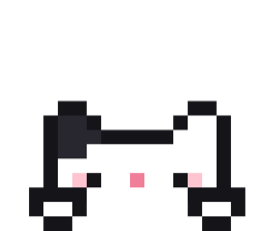
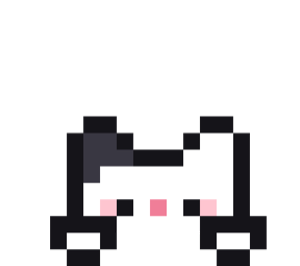
Narrow the cat's face in the peeking pose
The head is two columns narrower in all three looks, with the eyes
moved inward so they stay clear of the paws.

Changed region(s): [[0.0923, 0.4242, 0.7385, 1.0], [0.5846, 0.4242, 0.9538, 1.0]]

diff --git a/Sources/PixelCat/main.swift b/Sources/PixelCat/main.swift
@@ -85,15 +85,15 @@ let designs = [
         7: ".KWWWWWWBBBBBBBWWK",
         8: ".KWWWWWBBBBBBWWWWK",
     ], eye: NSColor(srgbRed: 1.0, green: 0.85, blue: 0.35, alpha: 1), lid: "B", legs: loafLegs, peekRows: [
+        ".....KK.....KK....",
+        "....KBPK...KPBK...",
+        "....KBBBKKKBBBK...",
+        "....KBBBBWBBBBK...",
+        "....KBBEBWBEBBK...",
+        "....KWceWPWecWK...",
+        "...KKKKWWWWWKKKK..",
+        "...KWWK.....KWWK..",
         "....KK.......KK...",
-        "...KBPK.....KPBK..",
-        "...KBBBKKKKKBBBK..",
-        "...KBBBBBWBBBBBK..",
-        "...KBBEBBWBBEBBK..",
-        "...KBceWWPWWecBK..",
-        "..KKKKWWWWWWWKKKK.",
-        "..KWWK.......KWWK.",
-        "...KK.........KK..",
     ]),
 
     Design(name: "Cow", rows: [
@@ -111,15 +111,15 @@ let designs = [
         7: ".KWWWBBBWWWWWWBBBK",
         8: ".KWWWWBBWWWWWBBBBK",
     ], eye: ink, lid: "W", legs: loafLegs, peekRows: [
+        ".....KK.....KK....",
+        "....KBPK...KPBK...",
+        "....KBBBKKKBBBK...",
+        "....KWWWBBBWWWK...",
+        "....KWWEWBWEWWK...",
+        "....KWceWPWecWK...",
+        "...KKKKWWWWWKKKK..",
+        "...KWWK.....KWWK..",
         "....KK.......KK...",
-        "...KBPK.....KPBK..",
-        "...KBBBKKKKKBBBK..",
-        "...KWWWWBBBWWWWK..",
-        "...KWWEWWBWWEWWK..",
-        "...KWceWWPWWecWK..",
-        "..KKKKWWWWWWWKKKK.",
-        "..KWWK.......KWWK.",
-        "...KK.........KK..",
     ]),
 
     Design(name: "Loaf", rows: [
@@ -137,15 +137,15 @@ let designs = [
         7: ".KWWWWWWWWWWWWBBBK",
         8: ".KWWWWWWWWWWWBBBBK",
     ], eye: ink, lid: "W", legs: loafLegs, peekRows: [
+        ".....KK.....KK....",
+        "....KBBK...KWWK...",
+        "....KBBBKKKWWWK...",
+        "....KBWWWWWWWWK...",
+        "....KWWEWWWEWWK...",
+        "....KWceWPWecWK...",
+        "...KKKKWWWWWKKKK..",
+        "...KWWK.....KWWK..",
         "....KK.......KK...",
-        "...KBBK.....KWWK..",
-        "...KBBBKKKKKWWWK..",
-        "...KBBWWWWWWWWWK..",
-        "...KWWEWWWWWEWWK..",
-        "...KWceWWPWWecWK..",
-        "..KKKKWWWWWWWKKKK.",
-        "..KWWK.......KWWK.",
-        "...KK.........KK..",
     ]),
 ]
 
